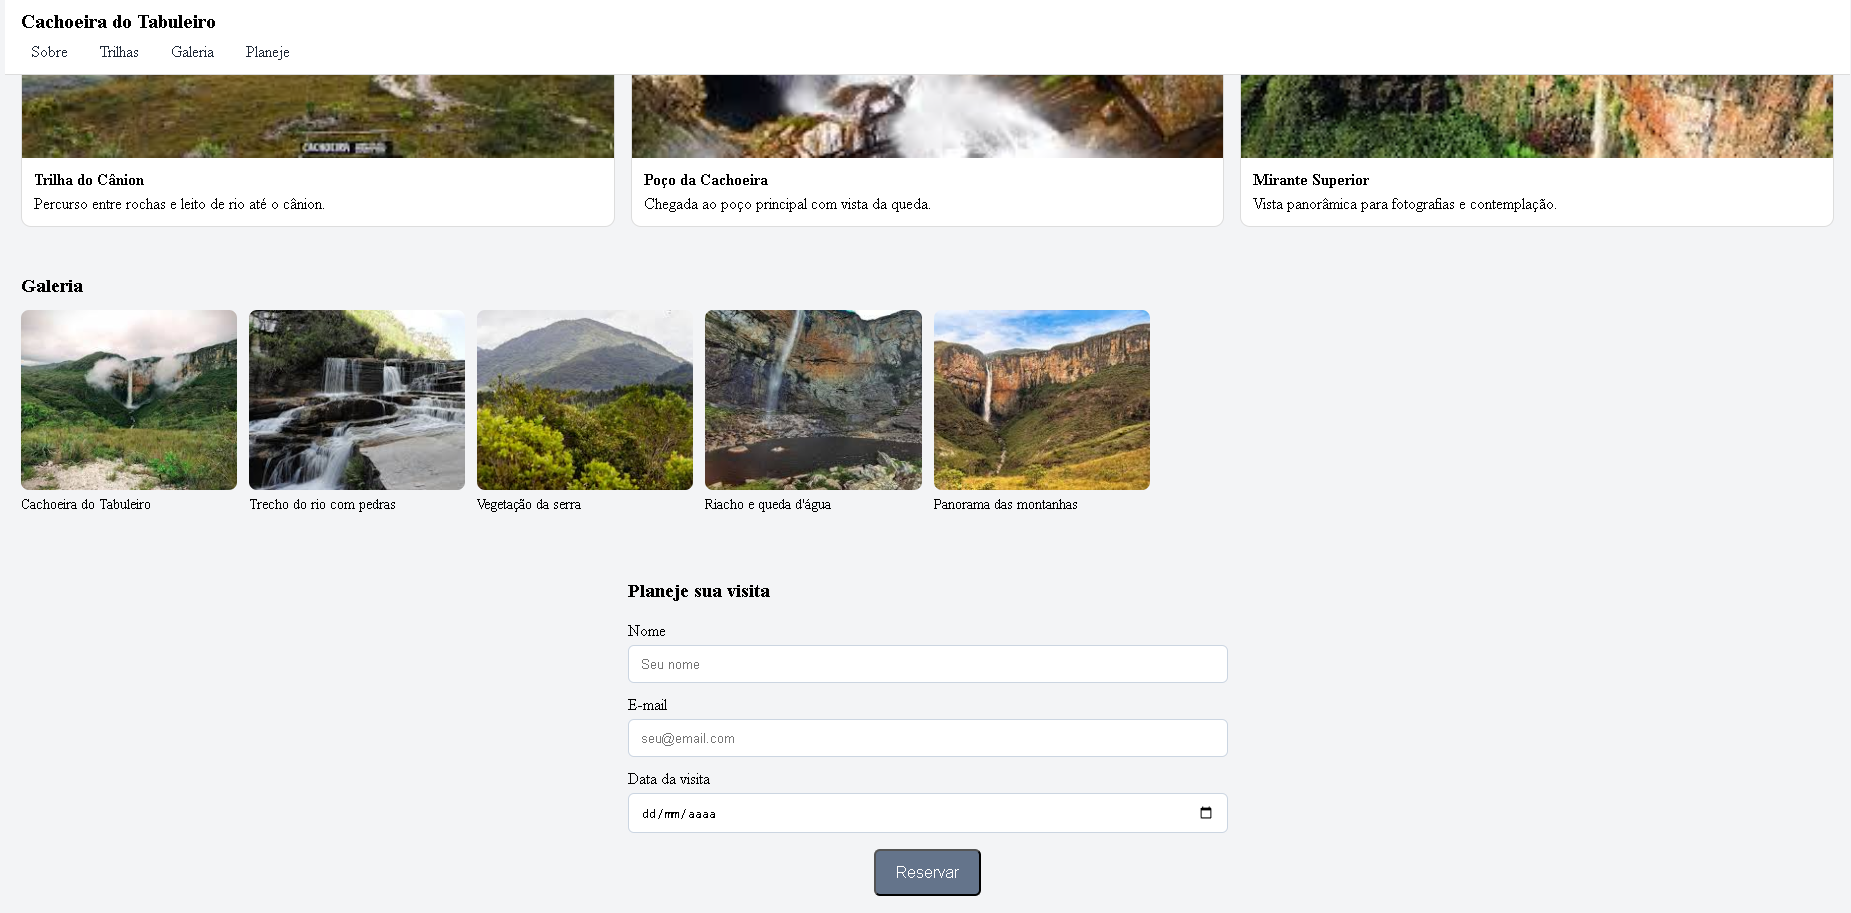
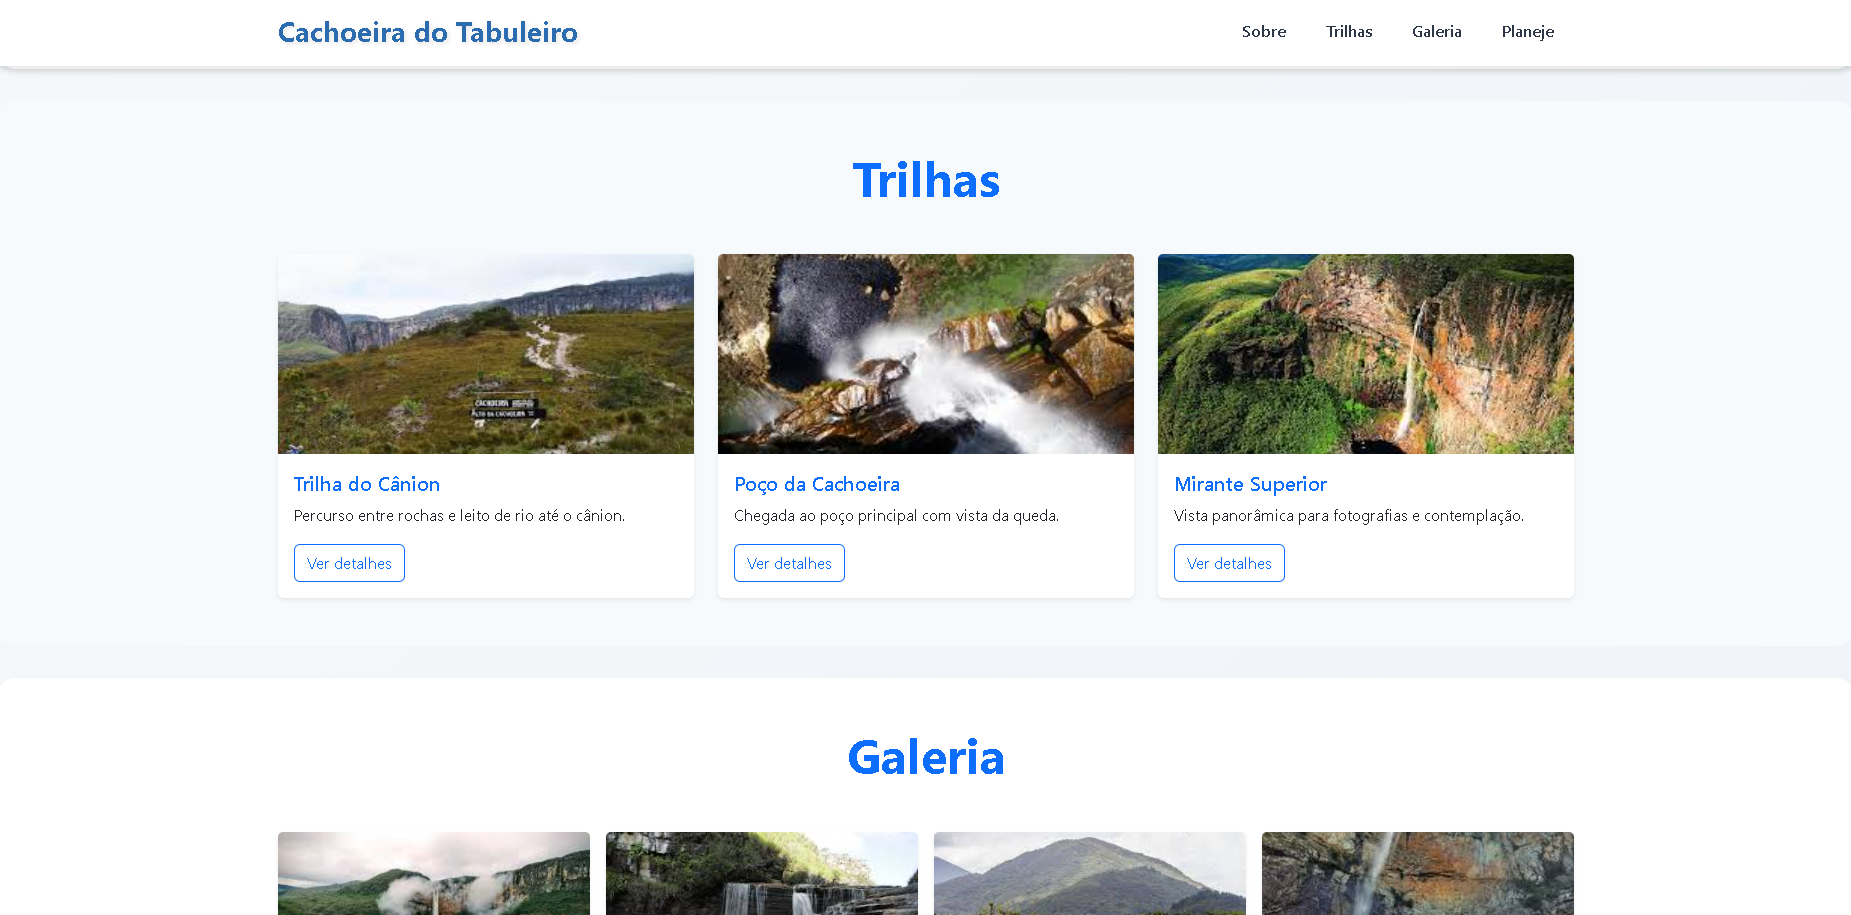
readme

diff --git a/README.md b/README.md
@@ -12,32 +12,41 @@ Leia o enunciado completo no Canvas.
 
 ## Informações Gerais
 
-- Nome:
+- Nome: Luan de Assis
 - Matricula:
-- Proposta de projeto escolhida:
-- Breve descrição sobre seu projeto:
+- Proposta de projeto escolhida: Trilha cachoeira de tabuleiro
+- Breve descrição sobre seu projeto: Sobre a trilha de tabuleiro.
 
 ## Print da Home-Page
 
-<<  COLOQUE A IMAGEM AQUI >>
+![HOME-PAGE](homepage.png)
 
 ## Print da página de detalhes do item
 
-<<  COLOQUE A IMAGEM AQUI >>
+![PAGE-DETALHES](detalhespage.png)
 
 ## Cole aqui abaixo a estrutura JSON utilizada no app.js
 
 ```javascript
-const dados = [
+const ITEMS = [
   {
-    "id": 1,
-    "titulo": "Prefeitura Lança Plano de Mobilidade Urbana",
-    "descricao": "Novo plano do transporte público.",
-    "conteudo": "A Prefeitura apresentou nesta segunda-feira um novo plano de mobilidade urbana.",
-    "categoria": "Cidades",
-    "autor": "Joana Ribeiro",
-    "data": "2025-03-30",
-    "imagem": "img/mobilidade.jpg"
+    id: 'trilha-canion',
+    title: 'Trilha do Cânion',
+    description: 'Percurso entre rochas e leito de rio até o cânion.',
+    image: './trilha.jpg'
+  },
+  {
+    id: 'poco-cachoeira',
+    title: 'Poço da Cachoeira',
+    description: 'Chegada ao poço principal com vista da queda.',
+    image: './poço.jpg'
+  },
+  {
+    id: 'mirante-superior',
+    title: 'Mirante Superior',
+    description: 'Vista panorâmica para fotografias e contemplação.',
+    image: './mirante.jpg'
   }
-]
+];
+
 ```
